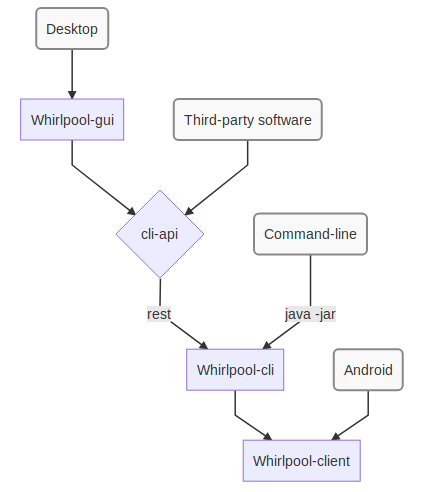
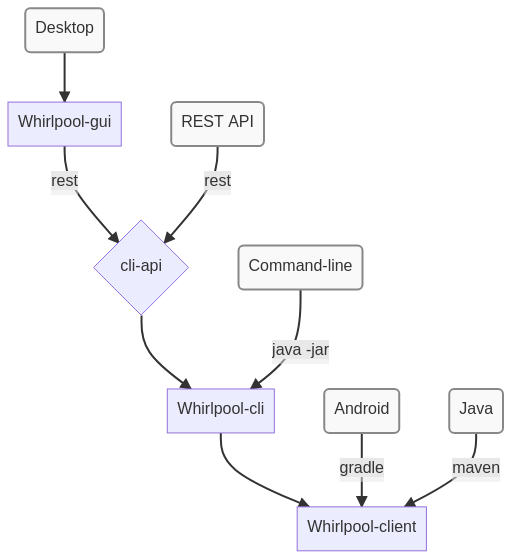
update cycle dialog

diff --git a/ARCHITECTURE.md b/ARCHITECTURE.md
@@ -22,5 +22,94 @@ Whirlpool is modular:
 
 
 ## III. Cycle dialog
-Dialog is described in `whirlpool-protocol`, implemented in `whirlpool-client` and `whirlpool-server`.
-![](charts/dialog.png)
+Dialog is:
+- over STOMP websocket
+- described in `whirlpool-protocol`
+- implemented in `whirlpool-client` with classes _`MixProcess.java`_, _`MixSession.java`_, _`MixClient.java`_
+- each message requires STOMP header: $protocolVersion
+
+### A. Succesful mix process
+This is the standard mix process.
+
+#### 1. CONNECT & REGISTER_INPUT
+![](charts/dialog1_registerInput.png)
+- Client submits [`RegisterInputRequest`](https://code.samourai.io/whirlpool/whirlpool-protocol/-/blob/develop/src/main/java/com/samourai/whirlpool/protocol/websocket/messages/RegisterInputRequest.java):
+    - `poolId`: obtained from /rest/pools
+    - `utxoHash` + `utxoIndex`: a PREMIX or POSTMIX utxo
+    - `signature`: message "$poolId" signed with utxo's key
+    - `liquidity`: true for PREMIX, false for POSTMIX
+
+#### 2. CONFIRM_INPUT
+![](charts/dialog2_confirmInput.png)
+
+- Client receives [`ConfirmInputMixStatusNotification`](https://code.samourai.io/whirlpool/whirlpool-protocol/-/blob/develop/src/main/java/com/samourai/whirlpool/protocol/websocket/notifications/ConfirmInputMixStatusNotification.java):
+    - `mixId`: unique identifier of the mix round to join
+    - `publicKey64`: public key to use for chaumian blinding
+
+- Client generates a fresh POSTMIX `receiveAddress` (bech32) which was **NEVER used** yet, including in failed mixs. See checkOutput for this.
+- Client generates a fresh `RSABlindingParameters` from `publicKey64`
+- Client submits [`ConfirmInputRequest`](https://code.samourai.io/whirlpool/whirlpool-protocol/-/blob/develop/src/main/java/com/samourai/whirlpool/protocol/websocket/messages/ConfirmInputRequest.java):
+    - `mixId`
+    - `blindedBordereau64` = `chaumianBlind(receiveAddress, RSABlindingParameters)`
+    - `userHash`: identifier which should be unique for {wallet, mixId}.  
+We use this to prevent Client to mix with its own wallet when using multiple instances simultaneously (Android, CLI).  
+It can be anything as long as it changes with mixId. We use: `sha256(mixId + sha256(premix00Bech32))`
+
+- Client submits [`ConfirmInputResponse`](https://code.samourai.io/whirlpool/whirlpool-protocol/-/blob/develop/src/main/java/com/samourai/whirlpool/protocol/websocket/messages/ConfirmInputResponse.java):
+    - `signedBordereau64`: chaumian signature of `blindedBordereau64` for the mix
+
+
+#### 3. REGISTER_OUTPUT
+![](charts/dialog3_registerOutput.png)
+- Client receives [`RegisterOutputMixStatusNotification`](https://code.samourai.io/whirlpool/whirlpool-protocol/-/blob/develop/src/main/java/com/samourai/whirlpool/protocol/websocket/notifications/RegisterOutputMixStatusNotification.java):
+    - `inputsHash`: hash of all mixs inputs = `sha512(join(sort(inputHash+inputIndex)))` used as anonymous mix round identifier.
+
+- Client increments it's local POSTMIX counter to make sure that it won't ever submit again this `receiveAddress`, even if mix fails.
+
+- Client submits [`RegisterOutputRequest`](https://code.samourai.io/whirlpool/whirlpool-protocol/-/blob/develop/src/main/java/com/samourai/whirlpool/protocol/rest/RegisterOutputRequest.java) through a different identity:
+    - `inputsHash`
+    - `unblindedSignedBordereau64` = `chamianUnblind(signedBordereau64, RSABlindingParameters)`
+    - `receiveAddress`
+
+- If `RegisterOutputRequest` fails, Client should run `CheckOutput` process (see below).
+
+#### 4. SIGNING & SUCCESS
+![](charts/dialog4_signing.png)
+- Client receives [`SigningMixStatusNotification`](https://code.samourai.io/whirlpool/whirlpool-protocol/-/blob/develop/src/main/java/com/samourai/whirlpool/protocol/websocket/notifications/SigningMixStatusNotification.java):
+    - `transaction64`: raw transaction to sign
+
+- Client checks that `inputsHash` matches
+- Client checks it's input among tx inputs
+- Client checks it's output among tx outputs
+- Client generates `witnesses64` by signing the transaction
+- Client submits [`SigningRequest`](https://code.samourai.io/whirlpool/whirlpool-protocol/-/blob/develop/src/main/java/com/samourai/whirlpool/protocol/websocket/messages/SigningRequest.java):
+    - `mixId`
+    - `witnesses64`
+- Client receives [`SuccessMixStatusNotification`](https://code.samourai.io/whirlpool/whirlpool-protocol/-/blob/develop/src/main/java/com/samourai/whirlpool/protocol/websocket/notifications/SuccessMixStatusNotification.java)
+
+
+### B. Mix failure
+
+#### 1. REVEAL_OUTPUT process
+This process will trigger if a peer fails to REGISTER_OUTPUT, causing the mix to fail.  
+Each client should reveal its registered output to coordinator, which will find and blame the faulty client.
+
+- Client receives [`RevealOutputMixStatusNotification`](https://code.samourai.io/whirlpool/whirlpool-protocol/-/blob/develop/src/main/java/com/samourai/whirlpool/protocol/websocket/notifications/RevealOutputMixStatusNotification.java)
+- Client submits [`RevealOutputRequest`](https://code.samourai.io/whirlpool/whirlpool-protocol/-/blob/develop/src/main/java/com/samourai/whirlpool/protocol/websocket/messages/RevealOutputRequest.java):
+    - `mixId`
+    - `receiveAddress`
+
+![](charts/dialog5_revealOutput.png)
+
+#### 2. Mix failure
+![](charts/dialog6_fail.png)
+- Client receives [`FailMixStatusNotification`](https://code.samourai.io/whirlpool/whirlpool-protocol/-/blob/develop/src/main/java/com/samourai/whirlpool/protocol/websocket/notifications/FailMixStatusNotification.java)
+
+
+#### 3. CheckOutput
+![](charts/dialog7_checkOutput.png)
+As stated before, client should **NEVER** submit a `receiveAddress` already known by coordinator.  This means that client should keep a local POSTMIX index to increment on REGISTER_OUTPUT, and never be roll it back even in case of a mix failure.   
+Reusing an already known `receiveAddress` will get the client blamed, then banned.  
+
+To make sure a `receiveAddress` is unknown to the server, we suggest using the CheckOutput service at client startup.  
+We also suggest to use it if your client fails to REGISTER_OUTPUT.

diff --git a/charts/usage.md b/charts/usage.md
@@ -3,12 +3,13 @@ graph TD
 classDef blue fill:#faf9f9,stroke:#888,stroke-width:2px;
 
 DSK(Desktop)-->GUI
-GUI[Whirlpool-gui] -->CLIAPI{cli-api}
-DEV(Third-party software)-->CLIAPI
+GUI[Whirlpool-gui] -->|rest|CLIAPI{cli-api}
+DEV(REST API)-->|rest|CLIAPI
 
-CLIAPI -->|rest|CLI[Whirlpool-cli]
+CLIAPI -->CLI[Whirlpool-cli]
 CMD(Command-line)-->|java -jar|CLI
 
 CLI-->CLIENT[Whirlpool-client]
-WALLET(Android)-->CLIENT
-class DSK,DEV,CMD,WALLET blue
+WALLET(Android)-->|gradle|CLIENT
+JAVA(Java)-->|maven|CLIENT
+class DSK,DEV,JAVA,CMD,WALLET blue

diff --git a/charts/architecture.md b/charts/architecture.md
@@ -2,11 +2,12 @@ graph TD
 
 classDef ext fill:#faf9f9,stroke:#888,stroke-width:2px;
 
-GUI[Whirlpool-GUI] -->|rest CLI api|CLI[Whirlpool-CLI]
-CLI -->CLIENT[Whirlpool-client]
+GUI[Whirlpool-gui] -->|rest api|CLI[Whirlpool-cli]
+CLI -->|maven|CLIENT[Whirlpool-client]
 
 CLIENT -->|websocket + rest|PROTOCOL{Whirlpool-protocol}
+CLIENT -->|maven|EXTLIBJ[ExtLibJ / BitcoinJ]
 
-SERVER[Whirlpool-server] -->|websocket + rest|PROTOCOL
+PROTOCOL -->SERVER[Whirlpool-server]
 
-class DOJO ext
+class EXTLIBJ ext

diff --git a/charts/dialog1_registerInput.md b/charts/dialog1_registerInput.md
@@ -1,0 +1,13 @@
+sequenceDiagram
+    autonumber
+    Note over Client,Server: << WEBSOCKET >>
+
+    Note left of Client: Connecting...
+    Client->>+Server: subscribe /private/reply (header: $poolId)
+    Server -->>-Client: SubscribePoolResponse
+
+    Note left of Client: Registering input...
+    Client->>Server: /ws/registerInput [RegisterInputRequest]
+    Note left of Client: Waiting for a mix...
+
+    Note over Client,Server: ... Wait for being invited to mix

diff --git a/charts/dialog3_registerOutput.md b/charts/dialog3_registerOutput.md
@@ -1,0 +1,12 @@
+sequenceDiagram
+    autonumber
+    Note over Client,Server: << WEBSOCKET >>
+
+    Server -->>+Client: RegisterOutputMixStatusNotification
+    Note left of Client: Registering output...
+
+    Note over Client / alt. identity,Server: << REST >> from alternate identity
+    Client / alt. identity->>Server: POST /rest/registerOutput [RegisterOutputRequest]
+    Note left of Client: Registered output
+
+    Note over Client,Server: ... Wait for peers

diff --git a/charts/dialog2_confirmInput.md b/charts/dialog2_confirmInput.md
@@ -1,0 +1,12 @@
+sequenceDiagram
+    autonumber
+    Note over Client,Server: << WEBSOCKET >>
+
+    Server-->>Client: ConfirmInputMixStatusNotification
+
+    Note left of Client: Trying to join a mix...
+    Client ->>+Server: /ws/confirmInput [ConfirmInputRequest]
+    Server -->>-Client: ConfirmInputResponse
+    Note left of Client: Joined a mix!
+
+    Note over Client,Server: ... Wait for enough peers

diff --git a/charts/dialog5_revealOutput.md b/charts/dialog5_revealOutput.md
@@ -1,0 +1,11 @@
+sequenceDiagram
+    autonumber
+    Note over Client,Server: << WEBSOCKET >>
+
+    Server -->>+Client: RevealOutputMixStatusNotification
+    Note left of Client: Revealing output...
+    Client->>-Server: /ws/revealOutput [RevealOutputRequest]
+    Note left of Client: Revealed output
+
+    Note over Client,Server: ... Wait for peers
+    Server -->>+Client: FailMixStatusNotification

diff --git a/charts/dialog4_signing.md b/charts/dialog4_signing.md
@@ -1,0 +1,11 @@
+sequenceDiagram
+    autonumber
+    Note over Client,Server: << WEBSOCKET >>
+
+    Server -->>+Client: SigningMixStatusNotification
+    Note left of Client: Signing...
+    Client->>-Server: /ws/signing [SigningRequest]
+    Note left of Client: Signed
+
+    Note over Client,Server: ... Wait for peers
+    Server -->>+Client: SuccessMixStatusNotification

diff --git a/charts/dialog7_checkOutput.md b/charts/dialog7_checkOutput.md
@@ -1,0 +1,7 @@
+sequenceDiagram
+    autonumber
+
+    Note over Client / alt. identity,Server: << REST >> from alternate identity
+    Client / alt. identity->>+Server: POST /rest/checkOutput [CheckOutputRequest]
+
+    Server->>-Client / alt. identity: [HTTP SUCCESS 200]

diff --git a/charts/dialog6_fail.md b/charts/dialog6_fail.md
@@ -1,0 +1,6 @@
+sequenceDiagram
+    autonumber
+    Note over Client,Server: << WEBSOCKET >>
+
+
+    Server -->>+Client: FailMixStatusNotification
